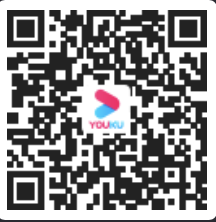
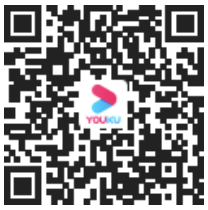
refine

diff --git a/README.md b/README.md
@@ -2,7 +2,7 @@
 
 ![合照](images/合照.JPG)
 
-## 聚会视频观看点击下方链接, 手机观看使用优酷App扫描二维码
+## 聚会视频观看点击下方链接, 二维码可以使用微信/优酷App扫描
 
 - [27班毕业10周年同学相册视频](https://v.youku.com/v_show/id_XNDA0OTE5OTYwNA==.html)
 
